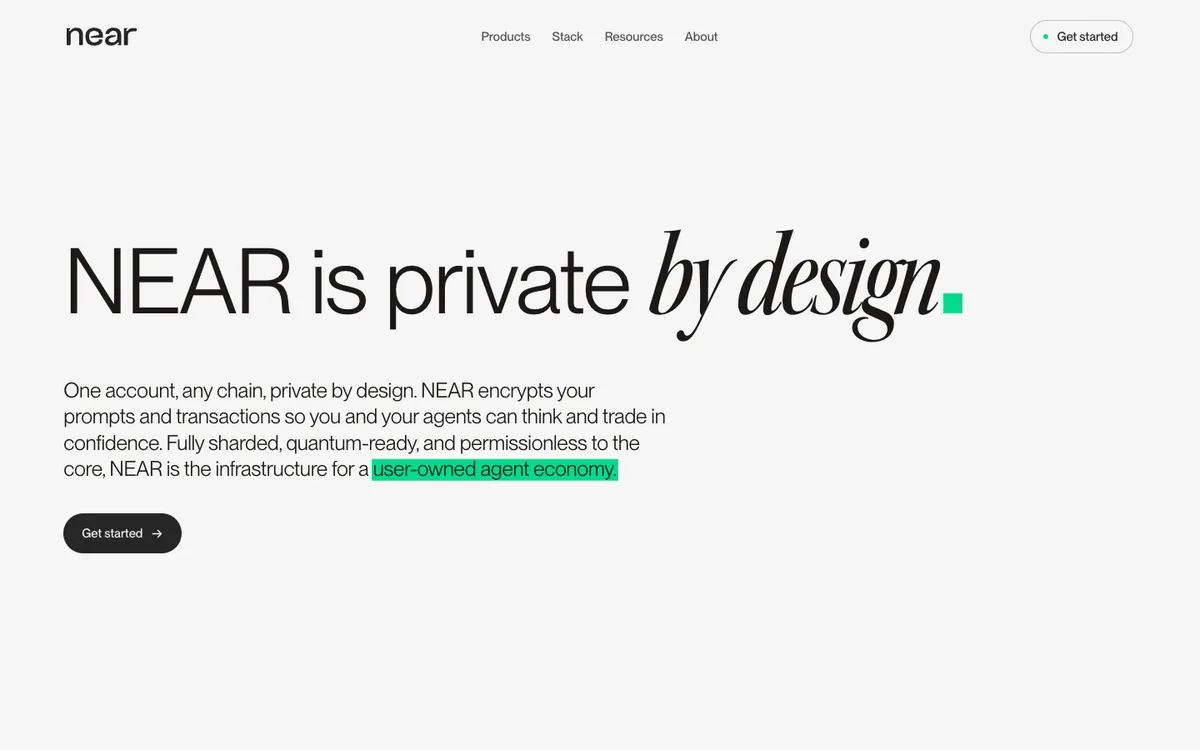
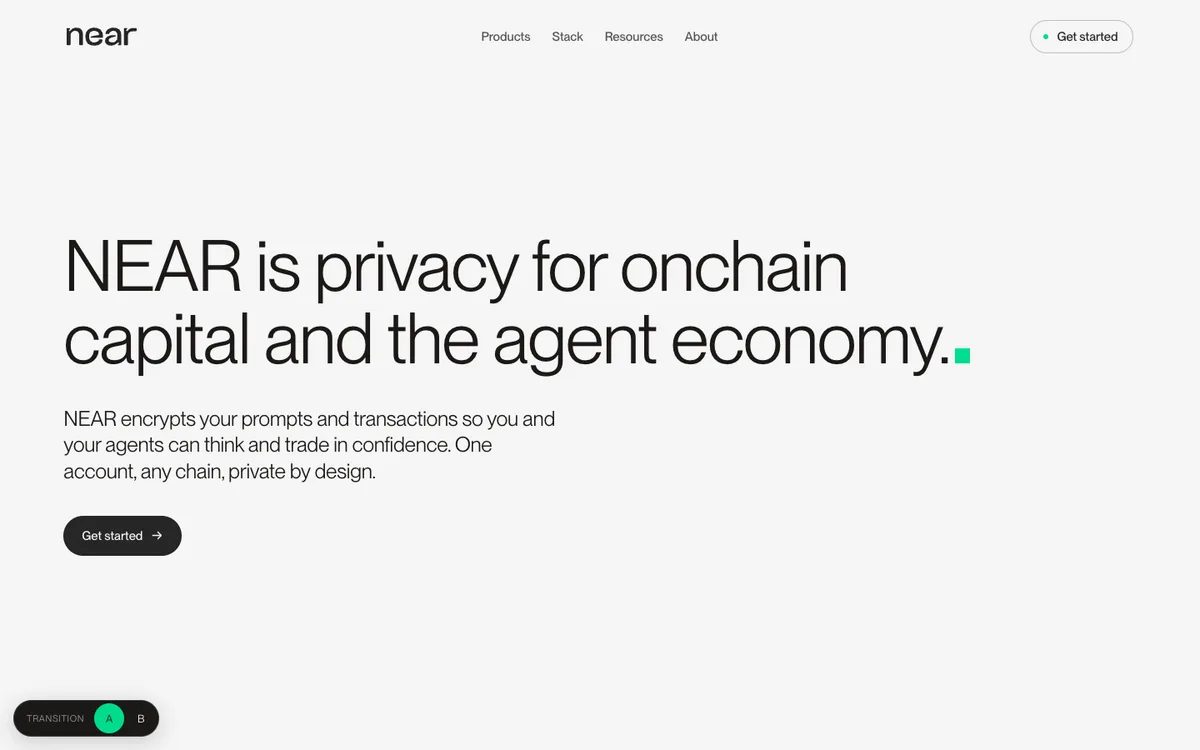
Homepage is home v9 again (the still headline); v8 moves to /extra (D246)
/ re-exports /home-v9, titled "NEAR: Privacy for onchain capital and the agent economy". v8 (the cycling word) keeps /home-v8 and is listed on /extra. Index and /extra cards recaptured; README updated.

Changed region(s): [[0.0308, 0.3067, 0.8325, 0.644], [0.0, 0.92, 0.1542, 1.0], [0.0617, 0.6747, 0.1542, 0.7667]]

diff --git a/src/app/(site)/extra/pages.ts b/src/app/(site)/extra/pages.ts
@@ -8,10 +8,10 @@ export const GROUPS: Group[] = [
   {
     id: "home",
     title: "Homepage",
-    note: "Homepage versions that were not chosen. The homepage (/) is home v8, the cycling word; home v7, the film hero, is at /home-v7 on /index.",
+    note: "Homepage versions that were not chosen. The homepage (/) is home v9, the still headline; home v7, the film hero, is at /home-v7 on /index.",
     pages: [
       { href: "/home-v10", n: "v10", name: "Home · Stack second", note: "Home v8 with the NEAR Stack and Real Usage straight after the hero, then the rail (\"AI is the frontend…\"), then the same lower page.", tags: ["Type-only hero", "Stack second", "Branch Stack-Second"], img: "/extra/home-v10.webp" },
-      { href: "/home-v9", n: "v9", name: "Home · still headline", note: "Home v8 with one still headline, \"NEAR is privacy for onchain capital and the agent economy.\", and two sentences under it, on the same lower page. The homepage until v8 was chosen.", tags: ["Type-only hero", "Still headline", "Archived"], img: "/extra/home-v9.webp" },
+      { href: "/home-v8", n: "v8", name: "Home · cycling word", note: "Home v9 with \"NEAR is private\" and a word that cycles (AI, money, markets… cross-chain) until it rests on \"by design\", and the intro's paragraph under it, on the same lower page. The homepage Nov 19–20, until v9 was chosen again.", tags: ["Type-only hero", "Cycling word", "Not chosen"], img: "/extra/home-v8.webp" },
     ],
   },
   {

diff --git a/src/app/(site)/index/pages.ts b/src/app/(site)/index/pages.ts
@@ -7,9 +7,9 @@ export type Final = { id: string; href: string; path?: string; name: string; not
 
 export const FINALS: Final[] = [
   {
-    id: "home", href: "/", name: "Homepage · v8",
-    note: "Home v8: one type-only section, \"NEAR is private\" with a word that cycles (AI, money, markets… cross-chain) until it rests on \"by design\", and the intro's paragraph under it; then the rail with the signed identity, the Stack in lit matte, Origin, Go deeper, Get into NEAR (Trade's photo with the glowing NEAR mark), the voices one at a time, and \"NEAR belongs to you\" as one centred group over a stack of mail. Also at /home-v8.",
-    tags: ["Type-only hero", "Cycling word", "Black-and-white photos"], img: "/index/home.webp",
+    id: "home", href: "/", name: "Homepage · v9",
+    note: "Home v9: one type-only section, \"NEAR is privacy for onchain capital and the agent economy.\", and two sentences under it; then the rail with the signed identity, the Stack in lit matte, Origin, Go deeper, Get into NEAR (Trade's photo with the glowing NEAR mark), the voices one at a time, and \"NEAR belongs to you\" as one centred group over a stack of mail. Also at /home-v9.",
+    tags: ["Type-only hero", "Still headline", "Black-and-white photos"], img: "/index/home.webp",
   },
   {
     id: "home-v7", href: "/home-v7", name: "Home v7",

diff --git a/src/app/(site)/page.tsx b/src/app/(site)/page.tsx
@@ -1,12 +1,12 @@
 import type { Metadata } from "next";
 import { og } from "@/lib/site";
 
-// The site's first page is home v8 (/home-v8, the cycling word; Lawrence, D222), the same page at both addresses: whatever changes there shows here.
-// Home v7 stays at /home-v7 (on /index); v9 (the still headline) is archived at /home-v9 (on /extra). The index of pages is /index
-export { default } from "./home-v8/page";
+// The site's first page is home v9 (/home-v9, the still headline; Lawrence, D246), the same page at both addresses: whatever changes there shows here.
+// Home v7 stays at /home-v7 (on /index); v8 (the cycling word, the homepage Nov 19–20) is at /home-v8 (on /extra). The index of pages is /index
+export { default } from "./home-v9/page";
 
-const TITLE = "NEAR: Private by design";   // v8's headline (D222)
-const DESCRIPTION = "One account, any chain, private by design. NEAR encrypts your prompts and transactions so you and your agents can think and trade in confidence.";
+const TITLE = "NEAR: Privacy for onchain capital and the agent economy";   // v9's headline (D246)
+const DESCRIPTION = "NEAR encrypts your prompts and transactions so you and your agents can think and trade in confidence. One account, any chain, private by design.";
 
 export const metadata: Metadata = {
   title: { absolute: TITLE },

diff --git a/src/app/(site)/home-v9/page.tsx b/src/app/(site)/home-v9/page.tsx
@@ -4,12 +4,12 @@ import { V7Page } from "@/components/v7/V7Page";
 export const metadata: Metadata = {
   title: "Home v9",
   description: "NEAR encrypts your prompts and transactions so you and your agents can think and trade in confidence. One account, any chain, private by design.",
-  alternates: { canonical: "/" },   // an archived version of the homepage: search engines are pointed to /
+  alternates: { canonical: "/" },   // the homepage's second address (/ re-exports this page): search engines are pointed to /
 };
 
 // Home v9 = Lawrence's branch NEAR-is-privacy-HEADLINE (D202): home v8 with one still headline, "NEAR is privacy for onchain capital and the agent
-// economy.", and two sentences under it (components/v7/private), and the lower page of that branch (V7Page `top`). It was the homepage until
-// Lawrence chose v8 (D222); archived here, listed at /extra.
+// economy.", and two sentences under it (components/v7/private), and the lower page of that branch (V7Page `top`). It is the homepage: / re-exports this
+// page (D246; it was before v8's turn, D222).
 export default function HomeV9() {
   return <V7Page top="privacy" />;
 }

diff --git a/src/app/(site)/home-v8/page.tsx b/src/app/(site)/home-v8/page.tsx
@@ -4,11 +4,11 @@ import { V7Page } from "@/components/v7/V7Page";
 export const metadata: Metadata = {
   title: "Home v8",
   description: "One account, any chain, private by design. NEAR encrypts your prompts and transactions so you and your agents can think and trade in confidence.",
-  alternates: { canonical: "/" },   // the homepage's second address (/ re-exports this page): search engines are pointed to /
+  alternates: { canonical: "/" },   // a version of the homepage not chosen: search engines are pointed to /
 };
 
 // Home v8 = Lawrence's branch NEAR-is-private-CYCLE (D200): home v7 with the hero and the intro merged into one type-only section, "NEAR is private" and a
-// word that cycles to "by design" (components/v7/private), and the lower page of that branch (V7Page `top`). It is the homepage: / re-exports this page (D222).
+// word that cycles to "by design" (components/v7/private), and the lower page of that branch (V7Page `top`). The homepage Nov 19–20 (D222), until Lawrence chose v9 (D246); listed at /extra.
 export default function HomeV8() {
   return <V7Page top="private" />;
 }

diff --git a/README.md b/README.md
@@ -10,7 +10,7 @@ The new near.org: the site's pages and the NEAR CMS (the blog's back office) in 
 
 | Address | Page | Code |
 |---|---|---|
-| `/` (and `/home-v8`) | **Homepage**: home v8. One type-only section, "NEAR is private" with a word that cycles until it rests on "by design", then the rail, the Stack in lit matte, proof and Go deeper. Home v7 (`/home-v7`, the film hero) stays at its own address, also on `/index`; v9 (`/home-v9`, the still headline) is archived on `/extra`. | `src/components/v7` (on pieces of v1–v5) |
+| `/` (and `/home-v9`) | **Homepage**: home v9. One type-only section, "NEAR is privacy for onchain capital and the agent economy.", then the rail, the Stack in lit matte, proof and Go deeper. Home v7 (`/home-v7`, the film hero) stays at its own address, also on `/index`; v8 (`/home-v8`, the cycling word) is on `/extra`. | `src/components/v7` (on pieces of v1–v5) |
 | `/blog` | **Blog**: version E (Lawrence's choice). The CMS's posts, the lead post always on screen, All / Blog / Press / Watch as large words, tag pills you can combine (the CMS's tags, with NEAR AI, NEAR Intents, near.com and NEAR Protocol first), and the homepage's ruled cards with date and tags, nine at a time. | `src/components/blog/e` |
 | `/blog/<slug>` | **Blog post**: layout B (Cover) by default; `?layout=a\|c\|d` shows A, C or D. `/post-b` is the sample article. | `src/components/v3/post` |
 | `/near-foundation` | **NEAR Foundation**: Foundation E (Living columns), with F's pillars and F's Council. | `src/components/foundation/e` (+ `f`) |
@@ -35,7 +35,7 @@ Explorations that still have their own routes are listed at `/extra`:
 
 ### What changed (November 2026)
 
-- **Homepage:** home v8 is the first page (v7 at `/home-v7`; v9, archived, at `/home-v9`). Homes v1–v6 were removed, with the code and assets only they used. `/home-v1`…`/home-v6` redirect to `/`.
+- **Homepage:** home v9 is the first page (v7 at `/home-v7`; v8 at `/home-v8`, on `/extra`). Homes v1–v6 were removed, with the code and assets only they used. `/home-v1`…`/home-v6` redirect to `/`.
 - **Removed pages:**
   - the blog directions A–L (J, which was `/blog` until E was chosen, is at `/blog-index-a`);
   - the 404 previews and designs B and C;
@@ -119,8 +119,8 @@ BASE=http://localhost:3000 npm run capture -- /blog public/index/blog.webp
 
 ## The homepage (home v7, v8 and v9)
 
-- **Route and owner:** the homepage is home v8: `/` re-exports `/home-v8/page.tsx` (`src/app/(site)/page.tsx`), so changes to v8 show on both. `/home-v7` (earlier) and `/home-v9` (archived) are the other versions, on the same code. Lawrence owns `src/components/v7`.
-- **Home v8 and v9** (`/home-v8`, `/home-v9`; v8 is `/`): Lawrence's branches `NEAR-is-private-CYCLE` and `NEAR-is-privacy-HEADLINE`, on the same `V7Page` with `top="private"` or `top="privacy"`. `top` swaps the hero and the intro for one type-only section (`v7/private`) and turns on those branches' lower page: the signed identity in the rail, Origin above Go deeper, the black-and-white photos, the voices one at a time (`v7/voices`) and the mailboxes. Their styles sit under `html[data-v7="priv"]` in `v7.css`, so `/home-v7` stays as it was.
+- **Route and owner:** the homepage is home v9: `/` re-exports `/home-v9/page.tsx` (`src/app/(site)/page.tsx`), so changes to v9 show on both. `/home-v7` (earlier) and `/home-v8` (on `/extra`) are the other versions, on the same code. Lawrence owns `src/components/v7`.
+- **Home v8 and v9** (`/home-v8`, `/home-v9`; v9 is `/`): Lawrence's branches `NEAR-is-private-CYCLE` and `NEAR-is-privacy-HEADLINE`, on the same `V7Page` with `top="private"` or `top="privacy"`. `top` swaps the hero and the intro for one type-only section (`v7/private`) and turns on those branches' lower page: the signed identity in the rail, Origin above Go deeper, the black-and-white photos, the voices one at a time (`v7/voices`) and the mailboxes. Their styles sit under `html[data-v7="priv"]` in `v7.css`, so `/home-v7` stays as it was.
 - **Code:** `src/components/v7` builds the page from pieces of v1–v5:
   - `V1Page` and its boot (world, rail, Stack);
   - v4's rail and Stack;
